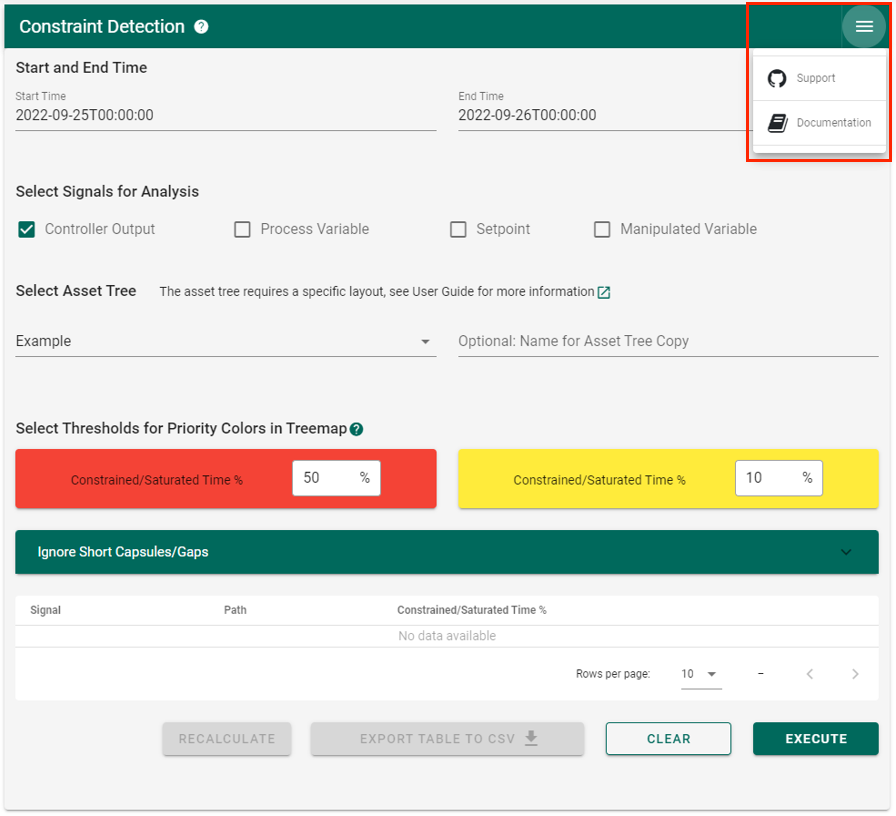
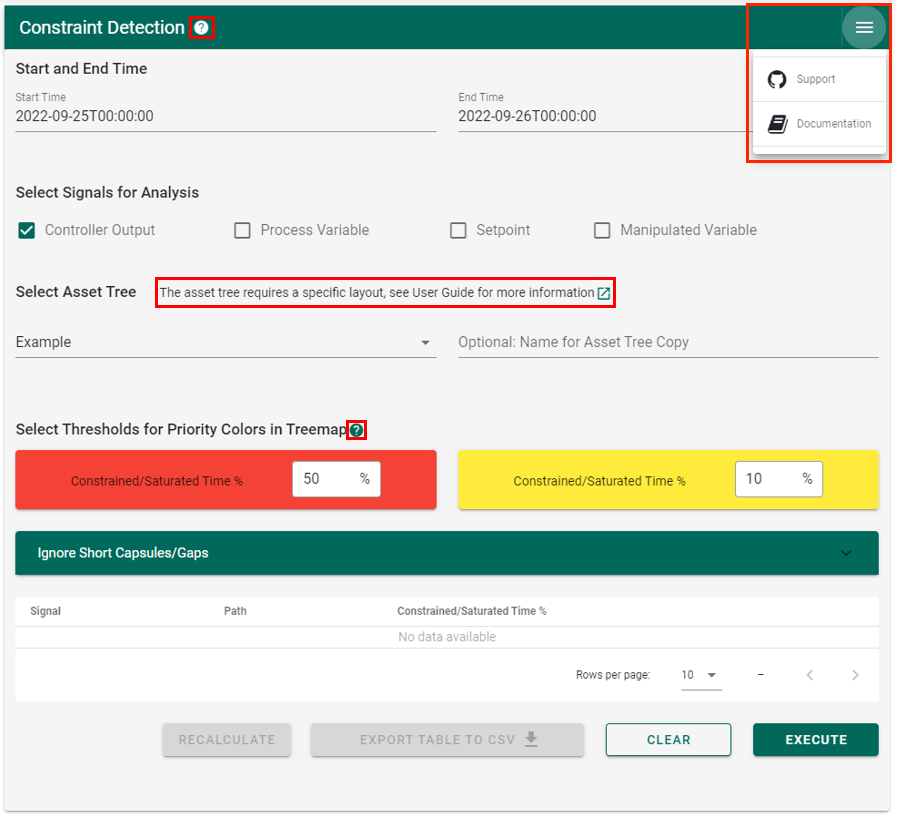
Add support section to documentation

diff --git a/docs/searchindex.js b/docs/searchindex.js
@@ -1,1 +1,1 @@
-Search.setIndex({docnames:["add_on_installation","backend_calculations","citation","codedocumentation","index","installation","introduction","license","releasenotes","usecases","user_interface","userguide"],envversion:{"sphinx.domains.c":2,"sphinx.domains.changeset":1,"sphinx.domains.citation":1,"sphinx.domains.cpp":3,"sphinx.domains.index":1,"sphinx.domains.javascript":2,"sphinx.domains.math":2,"sphinx.domains.python":3,"sphinx.domains.rst":2,"sphinx.domains.std":2,"sphinx.ext.intersphinx":1,"sphinx.ext.viewcode":1,sphinx:56},filenames:["add_on_installation.rst","backend_calculations.rst","citation.rst","codedocumentation.rst","index.rst","installation.rst","introduction.rst","license.rst","releasenotes.rst","usecases.rst","user_interface.rst","userguide.rst"],objects:{"seeq.addons.constraintdetection":{_SPy_functions:[1,0,0,"-"],__main__:[0,0,0,"-"],_saturation_detection:[1,0,0,"-"],_seeq_add_on:[10,0,0,"-"]},"seeq.addons.constraintdetection._SPy_functions":{OnlyPushWorksheetsPatch:[1,1,1,""],get_start_end_display_range:[1,2,1,""],get_start_end_display_range_from_ids:[1,2,1,""],pull_signals_from_asset_tree:[1,2,1,""],push_metadata:[1,2,1,""],push_signals:[1,2,1,""],recalculate_change_short_gap_capsule:[1,2,1,""],saturation_treemap:[1,2,1,""]},"seeq.addons.constraintdetection.__main__":{cli_interface:[0,2,1,""],install_app:[0,2,1,""]},"seeq.addons.constraintdetection._saturation_detection":{generate_constraint_index_table:[1,2,1,""],generate_metadata:[1,2,1,""],generate_short_gap_capsule:[1,2,1,""],recalculate_constraint_index_table:[1,2,1,""],recalculate_saturation_index:[1,2,1,""],saturation_detection:[1,2,1,""]},"seeq.addons.constraintdetection._seeq_add_on":{ConstraintDetection:[10,1,1,""],HamburgerMenu:[10,1,1,""]},"seeq.addons.constraintdetection._seeq_add_on.ConstraintDetection":{ConstraintDetectionUI:[10,3,1,""],clear_button_clicked:[10,3,1,""],execute_button_clicked:[10,3,1,""],on_close_button_clicked:[10,3,1,""],open_constraint_detection_dialog:[10,3,1,""],open_threshold_dialog:[10,3,1,""],recalculate_button_clicked:[10,3,1,""]}},objnames:{"0":["py","module","Python module"],"1":["py","class","Python class"],"2":["py","function","Python function"],"3":["py","method","Python method"]},objtypes:{"0":"py:module","1":"py:class","2":"py:function","3":"py:method"},terms:{"0":[2,4,7],"1":[4,5,6,11],"10":9,"11":9,"111":9,"12":9,"13":9,"15":11,"184":8,"2":[4,6,7,11],"20":9,"2022":7,"2min":1,"3":[4,5,6,11],"30":[9,11],"4":[2,4,5,9,11],"44":9,"444":9,"44cc":0,"5":9,"50":9,"5ee0f903100c":0,"6":[5,9],"60":9,"6ab49411":0,"7":[5,9],"8":9,"80":9,"9":9,"90":9,"917e":0,"case":[4,11],"class":[1,10],"default":[0,9,10,11],"do":9,"export":11,"float":1,"function":[1,10],"import":6,"int":1,"new":[1,5,9,10,11],"return":[0,1,11],"short":[1,6,9,10,11],"true":1,"while":11,A:[0,1,6,9,11],AS:7,By:11,For:[5,9,11],IS:7,If:[5,8,9,11],In:[6,9,11],It:[1,8,11],No:[9,11],OF:7,OR:7,On:[9,11],That:9,The:[0,1,5,6,9,11],Then:11,There:[5,9,11],These:5,With:9,__main__:0,_saturation_detect:1,_seeq_add_on:10,_spy_funct:1,abl:8,about:[10,11],abov:11,accept:11,access:[0,5],accord:[9,11],activ:[1,5,9,11],actor:4,actual:11,actuat:[6,11],add:[1,3,4,5,6,8,9,10],addit:[5,6,9,11],addition:5,addon:[0,1,5,10],adjust:9,administr:5,affect:11,after:[9,11],again:[9,11],agre:7,all:[1,9,10],also:[1,9,11],alwai:9,an:[0,6,7,9,10,11],analys:[6,9,11],analysi:[1,4,10,11],analyz:1,ani:[5,7],anti:11,apach:7,appear:[0,9,11],append:11,appli:11,applic:7,appropri:5,ar:[0,5,6,8,11],archiv:1,around:11,asset:[1,4,6,9],asset_tree_nam:1,assign:[9,11],autom:[2,5,11],automat:11,avail:11,awai:11,ba19:0,backend:[3,4,5],bad:4,bar:11,base:[1,9,10],basi:7,becaus:[6,9],becom:6,being:8,belong:11,below:[9,11],between:[1,11],bool:1,both:9,bug:8,build:[1,5],build_df:1,button:[1,10,11],calcul:[1,3,4,6,9,11],call:[1,9],can:[1,5,6,8,9,10,11],capsul:[1,6,9,10,11],cascad:[6,11],caus:[4,9],certain:6,chang:5,charact:0,check:1,checkbox:[1,9,11],checkbox_mv:1,checkbox_op:1,checkbox_pv:1,checkbox_sp:1,citat:4,cite:2,clear:10,clear_button_click:10,cli_interfac:0,click:[1,9,10,11],clone:5,close:[1,10,11],code:[4,11],colour:[1,6,9,11],column:[1,9],com:[0,2,5],command:5,complet:[6,11],complianc:7,compon:[6,10],condit:[1,7,9],consequ:9,consid:9,consist:6,constrain:[1,4,6,11],constraint:[0,1,2,4,5,10],constraintdetect:[0,1,2,5,6,8,10],constraintdetectionui:10,contain:[0,1,10,11],contraint:1,control:[1,4,6,11],copi:[7,9,11],copyright:7,corpor:7,correctli:11,correspond:[9,11],courtesi:5,creat:[1,5,10],csv:11,current:8,damag:11,data:[0,1,4,6,10,11],datafram:1,datat:1,defin:11,deliber:11,depart:11,depend:[4,9],descend:9,design:11,desir:9,detail:9,detect:[0,1,2,4,5,9,10],determin:[0,9],develop:5,deviat:6,dialog:10,dictionari:1,differ:[6,11],dimens:11,disabl:11,displai:[0,1,9,11],distribut:7,disturb:11,divid:9,document:11,doe:5,down:6,download:11,drill:6,drive:9,driven:9,due:[6,8],dure:11,e:[0,1],each:[0,9,11],easi:9,easier:9,either:7,empti:11,enabl:[5,11],encount:11,end:[1,11],end_tim:1,enter:11,environ:5,error:11,even:9,event:10,everi:[1,9,11],examin:9,exampl:[9,11],except:7,execut:[8,9,10,11],execute_button_click:10,exist:1,expans:11,explan:10,explor:11,express:7,extern:11,facilit:9,fals:1,familiar:5,fic:11,field:[10,11],figur:[6,9,11],file:5,find:[9,11],finish:9,first:[9,11],follow:[5,9],format:1,formula:1,found:[5,9,11],from:[1,4,6,8,9,10,11],fulli:11,further:9,furthermor:[6,9],g:[0,1],gap:[1,9,10,11],gener:[1,9,10,11],generate_constraint_index_t:1,generate_metadata:1,generate_short_gap_capsul:1,germani:11,get:[1,5,6,9],get_start_end_display_rang:1,get_start_end_display_range_from_id:1,git:5,github:[2,5,11],give:9,good:9,govern:7,green:[9,11],group:[0,5],groups_list:5,guarante:5,guid:4,guidanc:11,ha:9,hamburg:11,hamburgermenu:10,hand:[1,9],handl:11,have:[0,9,11],haw:[2,5],help:11,her:6,here:[5,11],high:[1,9],higher:[9,11],highest:11,highli:5,him:6,hit:9,hour:1,how:9,howev:9,http:[0,2,7],hundr:11,id:1,identifi:4,ignor:[1,11],illustr:9,implement:11,impli:[5,7],inappropri:11,includ:5,index:[1,4,9],indic:1,individu:9,industri:11,inform:[5,9],initi:8,input:10,insert:11,insight:11,instal:[3,4],install_app:0,instruct:5,integ:1,integr:11,intend:[9,11],interest:6,interfac:[3,4,6,9,11],interpret:9,interv:11,intreg:11,introduct:4,intuit:6,investig:9,involv:11,ipyvuetifi:10,issu:11,iter:11,its:[9,11],joined_signals_correct_naming_df:1,joined_signals_df:1,jupyter_notebook_url:10,kei:5,kind:7,kwarg:10,lab:[0,4,11],languag:7,larg:11,later:5,latest:5,law:7,left:11,length:1,letter:0,level:[9,11],li:11,licens:4,like:9,limit:[6,7],list:[0,5],log:5,look:[5,9],loop:[4,6],low:9,lower:9,lower_threshold:1,m:5,mai:[7,9],make:9,manipul:[1,6,11],match:5,maximum:6,mean:9,measur:[6,11],medium:[1,9],meet:6,menu:[10,11],metadata:1,mid:11,minimum:6,minut:[1,11],mode:[9,11],model:[4,6],modern:11,modul:[4,5],monitor:[6,11],more:[5,9],most:[9,11],move:11,mpc:[6,9,11],multipl:[6,8,11],must:11,mv:[1,6],my:0,name:[0,1,6,9,11],necessari:11,need:[5,11],new_asset_tree_nam:1,none:0,note:[4,9],now:[9,11],number:9,object:[1,10],oblig:5,obtain:7,off:11,often:9,on_close_button_click:10,onc:[5,11],one:[0,9],onli:[6,8,9,11],onlypushworksheetspatch:1,op:[1,6,9],open:[5,8,10,11],open_constraint_detection_dialog:10,open_threshold_dialog:10,oper:[6,9,11],optimum:9,option:[0,5,9,11],order:[0,9,11],org:7,origin:[1,11],original_asset_tree_nam:1,other:9,out:9,output:[1,6,9,11],outsid:11,over:[1,9],overview:4,owner:8,packag:5,page:[4,11],panel:[0,9,11],paramet:[0,1],password:5,path:[1,9],pd:1,peopl:8,per:9,percentag:[1,6,9],perform:[6,9],period:[6,9,11],permiss:[5,7],permissions_group:0,permissions_us:0,physic:6,pip:5,plant:[4,6],pleas:2,poor:11,popul:9,possibl:[9,11],predict:[4,6],prevent:[1,11],previous:9,prioriti:1,problemat:9,process:[1,2,5,6,9,11],progress:11,project:5,prompt:5,provid:6,publish:5,pull:1,pull_signals_from_asset_tre:1,pulled_signals_df:1,purpos:9,push:1,push_metadata:1,push_result:1,push_sign:1,pv:[1,6,9],py:5,pypi:5,python:5,question:11,quiet:1,r54:5,r56:5,r:5,rang:[1,6,11],reach:[6,9,11],reason:6,recalcul:[1,10,11],recalculate_button_click:10,recalculate_change_short_gap_capsul:1,recalculate_constraint_index_t:1,recalculate_saturation_index:1,recogn:11,recommend:[5,8],red:[1,9,11],redirect:11,refer:1,refresh:11,regard:10,releas:4,repositori:5,request:11,requir:[4,7,9,10,11],reset:10,result:[1,6,9,11],right:11,run:[5,11],s:[0,9,11],same:9,satur:[1,4,6,9],saturation_detect:1,saturation_index_df:1,saturation_index_dict:1,saturation_signals_df:1,saturation_treemap:1,scheme:11,scienc:11,sdl:0,sdl_url:0,sdl_url_:0,search:4,second:[1,9],section:9,see:[5,7,9],seen:9,seeq:[0,1,2,6,7,8,10,11],select:[1,9,11],sensor:[6,11],server:5,set:[1,6,9],setpoint:[1,4,6,11],setup:5,sever:[9,11],share:8,short_capsul:1,short_capsule_numb:1,short_capsule_unit:1,short_gap:1,short_gap_numb:1,short_gap_unit:1,should:[1,9,11],show:[9,11],shown:[6,9],signal:[1,6,9,11],so:[1,9,11],softwar:7,some:9,sort:9,sort_kei:0,sourc:[0,1,4,8,10],sp:[1,6,9],special:11,specif:[7,9,11],specifi:[1,6,9,10,11],spy:[1,8],stand:9,start:[1,5,11],start_tim:1,statist:[9,11],step:[9,11],stick:6,still:11,str:[0,1],string:[0,1],structur:[1,6,9,11],suit:9,support:[4,5],system:11,tabl:[1,9,11],tailor:9,take:[5,11],target:9,termin:5,text:11,thei:9,them:[10,11],therefor:[9,11],thi:[1,2,7,8,9,10,11],third:9,three:9,threshold:[1,6,9,10,11],time:[1,6,9,11],tool:[0,5,9,11],top:[9,11],total:9,tree:[1,4,6,9],treemap:[1,6,9,10,11],treemap_assetstructur:1,trend:[6,9,11],trendview:9,tune:11,two:9,txt:5,type:[0,1,9,11],typic:0,ui:[1,9,10,11],under:7,underli:[6,9],unformat:1,unit:[1,9],univers:11,unless:7,unusu:11,up:11,upper_threshold:1,url:[0,1],us:[1,4,5,6,7,8,10,11],user:[0,1,3,4,6,9],usernam:5,users_list:5,usual:11,v0:[2,4],v:1,valu:[9,10,11],valv:11,variabl:[1,6,9,11],veri:9,version:[5,7,8],video:4,view:[1,6,9,10,11],virtual:5,visual:[6,9,10,11],wa:[9,11],wai:[9,11],wait:11,want:[5,11],warranti:7,web:11,week:9,well:1,were:9,what:5,wheel:5,when:[1,5,6,10],where:[6,9,11],whether:9,which:[0,1,6,9,11],whose:5,why:9,wide:[4,6],widget:10,wind:11,window:[5,10,11],within:9,without:7,word:11,worflow:11,work:[2,5,7,8],workbench:[0,8,9,11],workbook:[1,8],workbook_id:1,workflow:4,worksheet:[1,9,11],worksheet_id:1,workstep:1,workstep_id:1,would:9,write:7,www:7,yellow:[1,9,11],you:[5,7,8,9,11],your:[5,11]},titles:["Add-on Installation","Backend","Citation","Code Documentation","Welcome to seeq-constraintdetection\u2019s documentation!","Installation","Introduction","License","Release Notes","Use Cases","User Interface","User Guide"],titleterms:{"0":8,"1":9,"2":9,"3":9,"3a":9,"3b":9,"4":8,"case":9,actor:9,add:[0,11],analysi:9,ar:9,asset:11,backend:1,bad:9,caus:11,citat:2,code:3,constrain:9,constraint:[6,9,11],constraintdetect:4,content:[3,4],control:9,data:[5,9],depend:5,detect:[6,11],document:[3,4],from:5,guid:11,identifi:9,indic:4,instal:[0,5],intent:9,interfac:10,introduct:6,lab:5,licens:7,loop:9,model:9,note:8,notebook:11,overview:6,plant:9,predict:9,releas:8,requir:5,s:4,satur:11,seeq:[4,5],setpoint:9,sourc:5,support:11,tabl:4,templat:11,tree:11,unintent:9,us:9,user:[5,10,11],v0:8,video:[6,11],welcom:4,wide:9,workflow:11}})
+Search.setIndex({docnames:["add_on_installation","backend_calculations","citation","codedocumentation","index","installation","introduction","license","releasenotes","support","usecases","user_interface","userguide"],envversion:{"sphinx.domains.c":2,"sphinx.domains.changeset":1,"sphinx.domains.citation":1,"sphinx.domains.cpp":3,"sphinx.domains.index":1,"sphinx.domains.javascript":2,"sphinx.domains.math":2,"sphinx.domains.python":3,"sphinx.domains.rst":2,"sphinx.domains.std":2,"sphinx.ext.intersphinx":1,"sphinx.ext.viewcode":1,sphinx:56},filenames:["add_on_installation.rst","backend_calculations.rst","citation.rst","codedocumentation.rst","index.rst","installation.rst","introduction.rst","license.rst","releasenotes.rst","support.rst","usecases.rst","user_interface.rst","userguide.rst"],objects:{"seeq.addons.constraintdetection":{_SPy_functions:[1,0,0,"-"],__main__:[0,0,0,"-"],_saturation_detection:[1,0,0,"-"],_seeq_add_on:[11,0,0,"-"]},"seeq.addons.constraintdetection._SPy_functions":{OnlyPushWorksheetsPatch:[1,1,1,""],get_start_end_display_range:[1,2,1,""],get_start_end_display_range_from_ids:[1,2,1,""],pull_signals_from_asset_tree:[1,2,1,""],push_metadata:[1,2,1,""],push_signals:[1,2,1,""],recalculate_change_short_gap_capsule:[1,2,1,""],saturation_treemap:[1,2,1,""]},"seeq.addons.constraintdetection.__main__":{cli_interface:[0,2,1,""],install_app:[0,2,1,""]},"seeq.addons.constraintdetection._saturation_detection":{generate_constraint_index_table:[1,2,1,""],generate_metadata:[1,2,1,""],generate_short_gap_capsule:[1,2,1,""],recalculate_constraint_index_table:[1,2,1,""],recalculate_saturation_index:[1,2,1,""],saturation_detection:[1,2,1,""]},"seeq.addons.constraintdetection._seeq_add_on":{ConstraintDetection:[11,1,1,""],HamburgerMenu:[11,1,1,""]},"seeq.addons.constraintdetection._seeq_add_on.ConstraintDetection":{ConstraintDetectionUI:[11,3,1,""],clear_button_clicked:[11,3,1,""],execute_button_clicked:[11,3,1,""],on_close_button_clicked:[11,3,1,""],open_constraint_detection_dialog:[11,3,1,""],open_threshold_dialog:[11,3,1,""],recalculate_button_clicked:[11,3,1,""]}},objnames:{"0":["py","module","Python module"],"1":["py","class","Python class"],"2":["py","function","Python function"],"3":["py","method","Python method"]},objtypes:{"0":"py:module","1":"py:class","2":"py:function","3":"py:method"},terms:{"0":[2,4,7],"1":[4,5,6,9,12],"10":10,"11":10,"111":10,"12":10,"13":10,"15":12,"184":8,"2":[4,6,7,9,12],"20":10,"2022":7,"2min":1,"3":[4,5,6,12],"30":[10,12],"4":[2,4,5,10],"44":10,"444":10,"44cc":0,"5":10,"50":10,"5ee0f903100c":0,"6":[5,10],"60":10,"6ab49411":0,"7":[5,10],"8":10,"80":10,"9":10,"90":10,"917e":0,"case":[4,9,12],"class":[1,11],"default":[0,10,11,12],"do":10,"export":12,"float":1,"function":[1,9,11],"import":6,"int":1,"new":[1,5,9,10,11,12],"return":[0,1,12],"short":[1,6,9,10,11,12],"true":1,"while":[9,12],A:[0,1,6,10,12],AS:7,By:12,For:[5,9,10,12],IS:7,If:[5,8,9,10,12],In:[6,9,10,12],It:[1,8,12],No:[10,12],OF:7,OR:7,On:[10,12],That:10,The:[0,1,5,6,9,10,12],Then:12,There:[5,9,10],These:5,With:10,__main__:0,_saturation_detect:1,_seeq_add_on:11,_spy_funct:1,abl:8,about:[9,11],abov:12,accept:12,access:[0,5],accord:[10,12],activ:[1,5,10,12],actor:4,actual:12,actuat:[6,12],add:[1,3,4,5,6,8,9,10,11],addit:[5,6,10,12],addition:5,addon:[0,1,5,11],adjust:10,administr:5,affect:12,after:[10,12],again:[10,12],agre:7,all:[1,10,11],also:[1,10,12],alwai:10,an:[0,6,7,9,10,11,12],analys:[6,10,12],analysi:[1,4,11,12],analyz:1,ani:[5,7],anti:12,apach:7,appear:[0,10,12],append:12,appli:[9,12],applic:7,appropri:5,ar:[0,5,6,8,9,12],archiv:1,around:12,asset:[1,4,6,9,10],asset_tree_nam:1,assign:[10,12],autom:[2,5,9],automat:9,avail:12,awai:12,ba19:0,backend:[3,4,5],bad:4,bar:12,base:[1,10,11],basi:7,becaus:[6,10],becom:6,being:8,belong:12,below:[10,12],between:[1,12],bool:1,both:10,bug:8,build:[1,5],build_df:1,button:[1,11,12],calcul:[1,3,4,6,10,12],call:[1,10],can:[1,5,6,8,9,10,11,12],capsul:[1,6,10,11,12],cascad:[6,12],caus:[4,10],certain:[6,9],chang:5,charact:0,check:1,checkbox:[1,10,12],checkbox_mv:1,checkbox_op:1,checkbox_pv:1,checkbox_sp:1,citat:4,cite:2,clear:11,clear_button_click:11,cli_interfac:0,click:[1,9,10,11,12],clone:5,close:[1,11,12],code:[4,12],colour:[1,6,10,12],column:[1,10],com:[0,2,5],command:5,complet:[6,12],complianc:7,compon:[6,11],condit:[1,7,10],consequ:10,consid:10,consist:6,constrain:[1,4,6,12],constraint:[0,1,2,4,5,9,11],constraintdetect:[0,1,2,5,6,8,11],constraintdetectionui:11,contain:[0,1,11,12],contraint:1,control:[1,4,6,12],copi:[7,10,12],copyright:7,corpor:7,correctli:12,correspond:[10,12],courtesi:5,creat:[1,5,11],csv:12,current:8,damag:12,data:[0,1,4,6,11,12],datafram:1,datat:1,defin:12,deliber:12,depart:9,depend:[4,10],descend:10,design:12,desir:10,detail:10,detect:[0,1,2,4,5,9,10,11],determin:[0,10],develop:5,deviat:6,dialog:[9,11],dictionari:1,differ:[6,12],dimens:12,disabl:12,displai:[0,1,10,12],distribut:7,disturb:12,divid:10,document:9,doe:5,down:6,download:12,drill:6,drive:10,driven:10,due:[6,8],dure:12,e:[0,1],each:[0,10,12],easi:10,easier:10,either:7,empti:12,enabl:[5,12],encount:9,end:[1,12],end_tim:1,enter:12,environ:5,error:9,even:10,event:11,everi:[1,10,12],examin:10,exampl:[10,12],except:7,execut:[8,10,11,12],execute_button_click:11,exist:1,expans:12,explan:[9,11],explor:12,express:7,extern:12,facilit:10,fals:1,familiar:5,fic:12,field:[11,12],figur:[6,9,10,12],file:5,find:[9,10],finish:10,first:[10,12],follow:[5,10],format:1,formula:1,found:[5,10,12],from:[1,4,6,8,10,11,12],fulli:12,further:10,furthermor:[6,10],g:[0,1],gap:[1,10,11,12],gener:[1,9,10,11,12],generate_constraint_index_t:1,generate_metadata:1,generate_short_gap_capsul:1,germani:9,get:[1,5,6,10],get_start_end_display_rang:1,get_start_end_display_range_from_id:1,git:5,github:[2,5,9],give:10,good:10,govern:7,green:[10,12],group:[0,5],groups_list:5,guarante:5,guid:[4,9],guidanc:12,ha:10,hamburg:9,hamburgermenu:11,hand:[1,10],handl:9,have:[0,10,12],haw:[2,5],help:9,her:6,here:[5,12],high:[1,10],higher:[10,12],highest:12,highli:5,him:6,hit:10,hour:1,how:10,howev:10,http:[0,2,7],hundr:12,icon:9,id:1,identifi:4,ignor:[1,12],illustr:10,implement:12,impli:[5,7],inappropri:12,includ:5,index:[1,4,10],indic:1,individu:10,industri:12,inform:[5,10],initi:8,input:11,insert:12,insight:12,instal:[3,4],install_app:0,instruct:5,integ:1,integr:12,intend:[10,12],interest:6,interfac:[3,4,6,10,12],interpret:10,interv:12,intreg:12,introduct:4,intuit:6,investig:10,involv:12,ipyvuetifi:11,issu:9,iter:12,its:[10,12],joined_signals_correct_naming_df:1,joined_signals_df:1,jupyter_notebook_url:11,kei:5,kind:7,kwarg:11,lab:[0,4,12],languag:7,larg:12,later:5,latest:5,law:7,left:12,length:1,letter:0,level:[10,12],li:12,licens:4,like:10,limit:[6,7],link:9,list:[0,5],log:5,look:[5,10],loop:[4,6],low:10,lower:10,lower_threshold:1,m:5,mai:[7,10],make:10,manipul:[1,6,12],mark:9,match:5,maximum:6,mean:10,measur:[6,12],medium:[1,10],meet:6,menu:[9,11,12],metadata:1,mid:12,minimum:6,minut:[1,12],mode:[10,12],model:[4,6],modern:12,modul:[4,5],monitor:[6,12],more:[5,10],most:[10,12],move:12,mpc:[6,10,12],multipl:[6,8,12],must:12,mv:[1,6],my:0,name:[0,1,6,10,12],necessari:12,need:[5,9],new_asset_tree_nam:1,none:0,note:[4,10],now:[10,12],number:10,object:[1,11],oblig:5,obtain:7,off:12,often:10,on_close_button_click:11,onc:[5,12],one:[0,10],onli:[6,8,10,12],onlypushworksheetspatch:1,op:[1,6,10],open:[5,8,9,11,12],open_constraint_detection_dialog:11,open_threshold_dialog:11,oper:[6,10,12],optimum:10,option:[0,5,9,10,12],order:[0,10,12],org:7,origin:[1,12],original_asset_tree_nam:1,other:[9,10],out:10,output:[1,6,10,12],outsid:12,over:[1,10],overview:4,owner:8,packag:5,page:[4,12],panel:[0,10,12],paramet:[0,1],part:9,password:5,path:[1,10],pd:1,peopl:8,per:10,percentag:[1,6,10],perform:[6,10],period:[6,10,12],permiss:[5,7],permissions_group:0,permissions_us:0,physic:6,pip:5,plant:[4,6],pleas:2,poor:12,popul:10,possibl:[10,12],predict:[4,6],prevent:[1,12],previous:10,prioriti:1,problemat:10,process:[1,2,5,6,10,12],progress:12,project:5,prompt:5,provid:[6,9],publish:5,pull:1,pull_signals_from_asset_tre:1,pulled_signals_df:1,purpos:10,push:1,push_metadata:1,push_result:1,push_sign:1,pv:[1,6,10],py:5,pypi:5,python:5,question:9,quiet:1,r54:5,r56:5,r:5,rang:[1,6,12],reach:[6,10,12],reason:6,recalcul:[1,11,12],recalculate_button_click:11,recalculate_change_short_gap_capsul:1,recalculate_constraint_index_t:1,recalculate_saturation_index:1,recogn:12,recommend:[5,8],red:[1,10,12],redirect:9,refer:1,refresh:12,regard:11,releas:4,repositori:5,request:9,requir:[4,7,10,11,12],reset:11,result:[1,6,10,12],right:9,run:[5,9,12],s:[0,10,12],same:10,satur:[1,4,6,10],saturation_detect:1,saturation_index_df:1,saturation_index_dict:1,saturation_signals_df:1,saturation_treemap:1,scheme:12,scienc:9,sdl:0,sdl_url:0,sdl_url_:0,search:4,second:[1,10],section:[9,10],see:[5,7,10],seen:10,seeq:[0,1,2,6,7,8,11,12],select:[1,9,10,12],sensor:[6,12],server:5,set:[1,6,10],setpoint:[1,4,6,12],setup:5,sever:[10,12],share:8,short_capsul:1,short_capsule_numb:1,short_capsule_unit:1,short_gap:1,short_gap_numb:1,short_gap_unit:1,should:[1,10,12],show:[10,12],shown:[6,10],signal:[1,6,10,12],so:[1,10,12],softwar:7,some:10,sort:10,sort_kei:0,sourc:[0,1,4,8,11],sp:[1,6,10],special:9,specif:[7,10,12],specifi:[1,6,10,11,12],spy:[1,8],stand:10,start:[1,5,12],start_tim:1,statist:[10,12],step:[10,12],stick:6,still:12,str:[0,1],string:[0,1],structur:[1,6,10,12],suit:10,support:[4,5],system:12,tabl:[1,10,12],tailor:10,take:[5,12],target:10,termin:5,text:12,thei:10,them:[11,12],therefor:[10,12],thi:[1,2,7,8,9,10,11,12],third:10,three:10,threshold:[1,6,10,11,12],time:[1,6,10,12],tool:[0,5,10,12],top:[9,10,12],total:10,tree:[1,4,6,9,10],treemap:[1,6,10,11,12],treemap_assetstructur:1,trend:[6,10,12],trendview:10,tune:12,two:10,txt:5,type:[0,1,10,12],typic:0,ui:[1,9,10,11,12],under:7,underli:[6,10],unformat:1,unit:[1,10],univers:9,unless:7,unusu:12,up:12,upper_threshold:1,url:[0,1],us:[1,4,5,6,7,8,9,11,12],user:[0,1,3,4,6,9,10],usernam:5,users_list:5,usual:12,v0:[2,4],v:1,valu:[10,11,12],valv:12,variabl:[1,6,10,12],veri:10,version:[5,7,8],video:4,view:[1,6,10,11,12],virtual:5,visual:[6,10,11,12],wa:[10,12],wai:[10,12],wait:12,want:[5,12],warranti:7,web:12,week:10,well:1,were:10,what:5,wheel:5,when:[1,5,6,11],where:[6,9,10,12],whether:10,which:[0,1,6,9,10,12],whose:5,why:10,wide:[4,6],widget:11,wind:12,window:[5,9,11,12],within:10,without:7,word:12,worflow:12,work:[2,5,7,8],workbench:[0,8,10,12],workbook:[1,8],workbook_id:1,workflow:4,worksheet:[1,10,12],worksheet_id:1,workstep:1,workstep_id:1,would:10,write:7,www:7,yellow:[1,10,12],you:[5,7,8,9,10,12],your:[5,12]},titles:["Add-on Installation","Backend","Citation","Code Documentation","Welcome to seeq-constraintdetection\u2019s documentation!","Installation","Introduction","License","Release Notes","Support","Use Cases","User Interface","User Guide"],titleterms:{"0":8,"1":10,"2":10,"3":10,"3a":10,"3b":10,"4":8,"case":10,actor:10,add:[0,12],analysi:10,ar:10,asset:12,backend:1,bad:10,caus:12,citat:2,code:3,constrain:10,constraint:[6,10,12],constraintdetect:4,content:[3,4],control:10,data:[5,10],depend:5,detect:[6,12],document:[3,4],from:5,guid:12,identifi:10,indic:4,instal:[0,5],intent:10,interfac:11,introduct:6,lab:5,licens:7,loop:10,model:10,note:8,notebook:12,overview:6,plant:10,predict:10,releas:8,requir:5,s:4,satur:12,seeq:[4,5],setpoint:10,sourc:5,support:9,tabl:4,templat:12,tree:12,unintent:10,us:10,user:[5,11,12],v0:8,video:[6,12],welcom:4,wide:10,workflow:12}})

diff --git a/docs/support.html b/docs/support.html
@@ -1,9 +1,10 @@
 <!DOCTYPE html>
 <html class="writer-html5" lang="en" >
 <head>
-  <meta charset="utf-8" />
+  <meta charset="utf-8" /><meta name="generator" content="Docutils 0.17: http://docutils.sourceforge.net/" />
+
   <meta name="viewport" content="width=device-width, initial-scale=1.0" />
-  <title>Python Module Index &mdash; seeq-constraintdetection 0.0.4 documentation</title>
+  <title>Support &mdash; seeq-constraintdetection 0.0.4 documentation</title>
       <link rel="stylesheet" href="_static/pygments.css" type="text/css" />
       <link rel="stylesheet" href="_static/css/theme.css" type="text/css" />
     <link rel="shortcut icon" href="_static/seeq-favicon.ico"/>
@@ -18,9 +19,8 @@
     <script src="_static/js/theme.js"></script>
     <link rel="index" title="Index" href="genindex.html" />
     <link rel="search" title="Search" href="search.html" />
- 
-
-
+    <link rel="next" title="Code Documentation" href="codedocumentation.html" />
+    <link rel="prev" title="Use Cases" href="usecases.html" /> 
 </head>
 
 <body class="wy-body-for-nav"> 
@@ -43,12 +43,12 @@
 </div>
         </div><div class="wy-menu wy-menu-vertical" data-spy="affix" role="navigation" aria-label="Navigation menu">
               <p class="caption"><span class="caption-text">Contents:</span></p>
-<ul>
+<ul class="current">
 <li class="toctree-l1"><a class="reference internal" href="introduction.html">Introduction</a></li>
 <li class="toctree-l1"><a class="reference internal" href="releasenotes.html">Release Notes</a></li>
 <li class="toctree-l1"><a class="reference internal" href="userguide.html">User Guide</a></li>
 <li class="toctree-l1"><a class="reference internal" href="usecases.html">Use Cases</a></li>
-<li class="toctree-l1"><a class="reference internal" href="support.html">Support</a></li>
+<li class="toctree-l1 current"><a class="current reference internal" href="#">Support</a></li>
 <li class="toctree-l1"><a class="reference internal" href="codedocumentation.html">Code Documentation</a></li>
 <li class="toctree-l1"><a class="reference internal" href="installation.html">Installation</a></li>
 <li class="toctree-l1"><a class="reference internal" href="license.html">License</a></li>
@@ -69,8 +69,9 @@
           <div role="navigation" aria-label="Page navigation">
   <ul class="wy-breadcrumbs">
       <li><a href="index.html" class="icon icon-home"></a> &raquo;</li>
-      <li>Python Module Index</li>
+      <li>Support</li>
       <li class="wy-breadcrumbs-aside">
+            <a href="_sources/support.rst.txt" rel="nofollow"> View page source</a>
       </li>
   </ul>
   <hr/>
@@ -78,49 +79,33 @@
           <div role="main" class="document" itemscope="itemscope" itemtype="http://schema.org/Article">
            <div itemprop="articleBody">
              
-
-   <h1>Python Module Index</h1>
-
-   <div class="modindex-jumpbox">
-   <a href="#cap-s"><strong>s</strong></a>
-   </div>
-
-   <table class="indextable modindextable">
-     <tr class="pcap"><td></td><td>&#160;</td><td></td></tr>
-     <tr class="cap" id="cap-s"><td></td><td>
-       <strong>s</strong></td><td></td></tr>
-     <tr>
-       <td><img src="_static/minus.png" class="toggler"
-              id="toggle-1" style="display: none" alt="-" /></td>
-       <td>
-       <code class="xref">seeq</code></td><td>
-       <em></em></td></tr>
-     <tr class="cg-1">
-       <td></td>
-       <td>&#160;&#160;&#160;
-       <a href="add_on_installation.html#module-seeq.addons.constraintdetection.__main__"><code class="xref">seeq.addons.constraintdetection.__main__</code></a></td><td>
-       <em></em></td></tr>
-     <tr class="cg-1">
-       <td></td>
-       <td>&#160;&#160;&#160;
-       <a href="backend_calculations.html#module-seeq.addons.constraintdetection._saturation_detection"><code class="xref">seeq.addons.constraintdetection._saturation_detection</code></a></td><td>
-       <em></em></td></tr>
-     <tr class="cg-1">
-       <td></td>
-       <td>&#160;&#160;&#160;
-       <a href="user_interface.html#module-seeq.addons.constraintdetection._seeq_add_on"><code class="xref">seeq.addons.constraintdetection._seeq_add_on</code></a></td><td>
-       <em></em></td></tr>
-     <tr class="cg-1">
-       <td></td>
-       <td>&#160;&#160;&#160;
-       <a href="backend_calculations.html#module-seeq.addons.constraintdetection._SPy_functions"><code class="xref">seeq.addons.constraintdetection._SPy_functions</code></a></td><td>
-       <em></em></td></tr>
-   </table>
+  <section id="support">
+<h1>Support<a class="headerlink" href="#support" title="Permalink to this headline"></a></h1>
+<p>If you are using the Constraint Detection Add-on and need support, you can click on the menu at the top right. There you will find the options ‘Support’ and ‘Documentation’.</p>
+<figure class="align-default" id="id1">
+<img alt="_images/userguide_support_1.PNG" src="_images/userguide_support_1.PNG" />
+<figcaption>
+<p><span class="caption-text">Figure 1: Hamburger menu in the UI</span><a class="headerlink" href="#id1" title="Permalink to this image"></a></p>
+</figcaption>
+</figure>
+<p>If you encounter an error while running the add-on or you need help with a special use case, click on ‘Support’. You will automatically be redirected to the <a class="reference external" href="https://github.com/HAW-Process-Automation/Constraint-Detection/issues">GitHub Issues</a> of the Constraint Detection Add-on and can open a new issue there.
+Support requests are handled by the Department of Automation of the Hamburg University of Applied Sciences in Germany. For general questions about the use of the add-on, you can click on ‘Documentation’. This will redirect you to this
+documentation. In other parts of the UI, there are question mark icons which will open a dialog window where you will find short explanations about certain add-on functions. The ‘Select Asset Tree’ Section provides a link to the user guide.</p>
+<figure class="align-default" id="id2">
+<img alt="_images/userguide_support_2.PNG" src="_images/userguide_support_2.PNG" />
+<figcaption>
+<p><span class="caption-text">Figure 2: GitHub Issues</span><a class="headerlink" href="#id2" title="Permalink to this image"></a></p>
+</figcaption>
+</figure>
+</section>
 
 
            </div>
           </div>
-          <footer>
+          <footer><div class="rst-footer-buttons" role="navigation" aria-label="Footer">
+        <a href="usecases.html" class="btn btn-neutral float-left" title="Use Cases" accesskey="p" rel="prev"><span class="fa fa-arrow-circle-left" aria-hidden="true"></span> Previous</a>
+        <a href="codedocumentation.html" class="btn btn-neutral float-right" title="Code Documentation" accesskey="n" rel="next">Next <span class="fa fa-arrow-circle-right" aria-hidden="true"></span></a>
+    </div>
 
   <hr/>
 

diff --git a/docs/userguide.html b/docs/userguide.html
@@ -53,11 +53,11 @@
 </ul>
 </li>
 <li class="toctree-l2"><a class="reference internal" href="#workflow">Workflow</a></li>
-<li class="toctree-l2"><a class="reference internal" href="#support">Support</a></li>
 <li class="toctree-l2"><a class="reference internal" href="#causes-for-constraints-and-saturation">Causes for Constraints and Saturation</a></li>
 </ul>
 </li>
 <li class="toctree-l1"><a class="reference internal" href="usecases.html">Use Cases</a></li>
+<li class="toctree-l1"><a class="reference internal" href="support.html">Support</a></li>
 <li class="toctree-l1"><a class="reference internal" href="codedocumentation.html">Code Documentation</a></li>
 <li class="toctree-l1"><a class="reference internal" href="installation.html">Installation</a></li>
 <li class="toctree-l1"><a class="reference internal" href="license.html">License</a></li>
@@ -147,25 +147,6 @@ completely different.</p>
 <img alt="_images/user_interface_guide.PNG" src="_images/user_interface_guide.PNG" />
 <figcaption>
 <p><span class="caption-text">Figure 2: Worflow in the UI</span><a class="headerlink" href="#id3" title="Permalink to this image"></a></p>
-</figcaption>
-</figure>
-</section>
-<section id="support">
-<h2>Support<a class="headerlink" href="#support" title="Permalink to this headline"></a></h2>
-<p>If you are using the Constraint Detection Add-on and need support, you can click on the menu at the top right. There you will find the options ‘Support’ and ‘Documentation’.</p>
-<figure class="align-default" id="id4">
-<img alt="_images/userguide_support_1.PNG" src="_images/userguide_support_1.PNG" />
-<figcaption>
-<p><span class="caption-text">Figure 3: Hamburger menu in the UI</span><a class="headerlink" href="#id4" title="Permalink to this image"></a></p>
-</figcaption>
-</figure>
-<p>If you encounter an error while running the add-on or you need help with a special use case, click on ‘Support’. You will automatically be redirected to the <a class="reference external" href="https://github.com/HAW-Process-Automation/Constraint-Detection/issues">GitHub Issues</a> of the Constraint Detection Add-on and can open a new issue there.
-Support requests are handled by the Department of Automation of the Hamburg University of Applied Sciences in Germany. For general questions about the use of the add-on, you can click on ‘Documentation’. This will redirect you to this
-documentation.</p>
-<figure class="align-default" id="id5">
-<img alt="_images/userguide_support_2.PNG" src="_images/userguide_support_2.PNG" />
-<figcaption>
-<p><span class="caption-text">Figure 4: GitHub Issues</span><a class="headerlink" href="#id5" title="Permalink to this image"></a></p>
 </figcaption>
 </figure>
 </section>

diff --git a/docs/index.html b/docs/index.html
@@ -47,6 +47,7 @@
 <li class="toctree-l1"><a class="reference internal" href="releasenotes.html">Release Notes</a></li>
 <li class="toctree-l1"><a class="reference internal" href="userguide.html">User Guide</a></li>
 <li class="toctree-l1"><a class="reference internal" href="usecases.html">Use Cases</a></li>
+<li class="toctree-l1"><a class="reference internal" href="support.html">Support</a></li>
 <li class="toctree-l1"><a class="reference internal" href="codedocumentation.html">Code Documentation</a></li>
 <li class="toctree-l1"><a class="reference internal" href="installation.html">Installation</a></li>
 <li class="toctree-l1"><a class="reference internal" href="license.html">License</a></li>
@@ -95,7 +96,6 @@
 <li class="toctree-l2"><a class="reference internal" href="userguide.html#video-user-guide">Video: User Guide</a></li>
 <li class="toctree-l2"><a class="reference internal" href="userguide.html#asset-tree-for-constraint-detection-add-on">Asset Tree for Constraint Detection Add-on</a></li>
 <li class="toctree-l2"><a class="reference internal" href="userguide.html#workflow">Workflow</a></li>
-<li class="toctree-l2"><a class="reference internal" href="userguide.html#support">Support</a></li>
 <li class="toctree-l2"><a class="reference internal" href="userguide.html#causes-for-constraints-and-saturation">Causes for Constraints and Saturation</a></li>
 </ul>
 </li>
@@ -105,6 +105,7 @@
 <li class="toctree-l2"><a class="reference internal" href="usecases.html#use-case-3-setpoint-analysis-for-constrained-model-predictive-control">Use Case 3: Setpoint Analysis for Constrained Model Predictive Control</a></li>
 </ul>
 </li>
+<li class="toctree-l1"><a class="reference internal" href="support.html">Support</a></li>
 <li class="toctree-l1"><a class="reference internal" href="codedocumentation.html">Code Documentation</a><ul>
 <li class="toctree-l2"><a class="reference internal" href="add_on_installation.html">Add-on Installation</a></li>
 <li class="toctree-l2"><a class="reference internal" href="backend_calculations.html">Backend Calculations</a></li>

diff --git a/docs/codedocumentation.html b/docs/codedocumentation.html
@@ -20,7 +20,7 @@
     <link rel="index" title="Index" href="genindex.html" />
     <link rel="search" title="Search" href="search.html" />
     <link rel="next" title="Add-on Installation" href="add_on_installation.html" />
-    <link rel="prev" title="Use Cases" href="usecases.html" /> 
+    <link rel="prev" title="Support" href="support.html" /> 
 </head>
 
 <body class="wy-body-for-nav"> 
@@ -48,6 +48,7 @@
 <li class="toctree-l1"><a class="reference internal" href="releasenotes.html">Release Notes</a></li>
 <li class="toctree-l1"><a class="reference internal" href="userguide.html">User Guide</a></li>
 <li class="toctree-l1"><a class="reference internal" href="usecases.html">Use Cases</a></li>
+<li class="toctree-l1"><a class="reference internal" href="support.html">Support</a></li>
 <li class="toctree-l1 current"><a class="current reference internal" href="#">Code Documentation</a><ul>
 <li class="toctree-l2"><a class="reference internal" href="add_on_installation.html">Add-on Installation</a></li>
 <li class="toctree-l2"><a class="reference internal" href="backend_calculations.html">Backend Calculations</a></li>
@@ -99,7 +100,7 @@
            </div>
           </div>
           <footer><div class="rst-footer-buttons" role="navigation" aria-label="Footer">
-        <a href="usecases.html" class="btn btn-neutral float-left" title="Use Cases" accesskey="p" rel="prev"><span class="fa fa-arrow-circle-left" aria-hidden="true"></span> Previous</a>
+        <a href="support.html" class="btn btn-neutral float-left" title="Support" accesskey="p" rel="prev"><span class="fa fa-arrow-circle-left" aria-hidden="true"></span> Previous</a>
         <a href="add_on_installation.html" class="btn btn-neutral float-right" title="Add-on Installation" accesskey="n" rel="next">Next <span class="fa fa-arrow-circle-right" aria-hidden="true"></span></a>
     </div>
 

diff --git a/docs/usecases.html b/docs/usecases.html
@@ -19,7 +19,7 @@
     <script src="_static/js/theme.js"></script>
     <link rel="index" title="Index" href="genindex.html" />
     <link rel="search" title="Search" href="search.html" />
-    <link rel="next" title="Code Documentation" href="codedocumentation.html" />
+    <link rel="next" title="Support" href="support.html" />
     <link rel="prev" title="User Guide" href="userguide.html" /> 
 </head>
 
@@ -57,6 +57,7 @@
 </li>
 </ul>
 </li>
+<li class="toctree-l1"><a class="reference internal" href="support.html">Support</a></li>
 <li class="toctree-l1"><a class="reference internal" href="codedocumentation.html">Code Documentation</a></li>
 <li class="toctree-l1"><a class="reference internal" href="installation.html">Installation</a></li>
 <li class="toctree-l1"><a class="reference internal" href="license.html">License</a></li>
@@ -236,7 +237,7 @@ and unintentional setpoint constraints within the same plant. Therefore, each co
           </div>
           <footer><div class="rst-footer-buttons" role="navigation" aria-label="Footer">
         <a href="userguide.html" class="btn btn-neutral float-left" title="User Guide" accesskey="p" rel="prev"><span class="fa fa-arrow-circle-left" aria-hidden="true"></span> Previous</a>
-        <a href="codedocumentation.html" class="btn btn-neutral float-right" title="Code Documentation" accesskey="n" rel="next">Next <span class="fa fa-arrow-circle-right" aria-hidden="true"></span></a>
+        <a href="support.html" class="btn btn-neutral float-right" title="Support" accesskey="n" rel="next">Next <span class="fa fa-arrow-circle-right" aria-hidden="true"></span></a>
     </div>
 
   <hr/>

diff --git a/docs/_modules/seeq/addons/constraintdetection/_SPy_functions.html b/docs/_modules/seeq/addons/constraintdetection/_SPy_functions.html
@@ -45,6 +45,7 @@
 <li class="toctree-l1"><a class="reference internal" href="../../../../releasenotes.html">Release Notes</a></li>
 <li class="toctree-l1"><a class="reference internal" href="../../../../userguide.html">User Guide</a></li>
 <li class="toctree-l1"><a class="reference internal" href="../../../../usecases.html">Use Cases</a></li>
+<li class="toctree-l1"><a class="reference internal" href="../../../../support.html">Support</a></li>
 <li class="toctree-l1"><a class="reference internal" href="../../../../codedocumentation.html">Code Documentation</a></li>
 <li class="toctree-l1"><a class="reference internal" href="../../../../installation.html">Installation</a></li>
 <li class="toctree-l1"><a class="reference internal" href="../../../../license.html">License</a></li>

diff --git a/docs/_modules/seeq/addons/constraintdetection/__main__.html b/docs/_modules/seeq/addons/constraintdetection/__main__.html
@@ -45,6 +45,7 @@
 <li class="toctree-l1"><a class="reference internal" href="../../../../releasenotes.html">Release Notes</a></li>
 <li class="toctree-l1"><a class="reference internal" href="../../../../userguide.html">User Guide</a></li>
 <li class="toctree-l1"><a class="reference internal" href="../../../../usecases.html">Use Cases</a></li>
+<li class="toctree-l1"><a class="reference internal" href="../../../../support.html">Support</a></li>
 <li class="toctree-l1"><a class="reference internal" href="../../../../codedocumentation.html">Code Documentation</a></li>
 <li class="toctree-l1"><a class="reference internal" href="../../../../installation.html">Installation</a></li>
 <li class="toctree-l1"><a class="reference internal" href="../../../../license.html">License</a></li>

diff --git a/docs/_modules/seeq/addons/constraintdetection/_saturation_detection.html b/docs/_modules/seeq/addons/constraintdetection/_saturation_detection.html
@@ -45,6 +45,7 @@
 <li class="toctree-l1"><a class="reference internal" href="../../../../releasenotes.html">Release Notes</a></li>
 <li class="toctree-l1"><a class="reference internal" href="../../../../userguide.html">User Guide</a></li>
 <li class="toctree-l1"><a class="reference internal" href="../../../../usecases.html">Use Cases</a></li>
+<li class="toctree-l1"><a class="reference internal" href="../../../../support.html">Support</a></li>
 <li class="toctree-l1"><a class="reference internal" href="../../../../codedocumentation.html">Code Documentation</a></li>
 <li class="toctree-l1"><a class="reference internal" href="../../../../installation.html">Installation</a></li>
 <li class="toctree-l1"><a class="reference internal" href="../../../../license.html">License</a></li>

diff --git a/docs/_modules/seeq/addons/constraintdetection/_seeq_add_on.html b/docs/_modules/seeq/addons/constraintdetection/_seeq_add_on.html
@@ -45,6 +45,7 @@
 <li class="toctree-l1"><a class="reference internal" href="../../../../releasenotes.html">Release Notes</a></li>
 <li class="toctree-l1"><a class="reference internal" href="../../../../userguide.html">User Guide</a></li>
 <li class="toctree-l1"><a class="reference internal" href="../../../../usecases.html">Use Cases</a></li>
+<li class="toctree-l1"><a class="reference internal" href="../../../../support.html">Support</a></li>
 <li class="toctree-l1"><a class="reference internal" href="../../../../codedocumentation.html">Code Documentation</a></li>
 <li class="toctree-l1"><a class="reference internal" href="../../../../installation.html">Installation</a></li>
 <li class="toctree-l1"><a class="reference internal" href="../../../../license.html">License</a></li>

diff --git a/docs/user_interface.html b/docs/user_interface.html
@@ -48,6 +48,7 @@
 <li class="toctree-l1"><a class="reference internal" href="releasenotes.html">Release Notes</a></li>
 <li class="toctree-l1"><a class="reference internal" href="userguide.html">User Guide</a></li>
 <li class="toctree-l1"><a class="reference internal" href="usecases.html">Use Cases</a></li>
+<li class="toctree-l1"><a class="reference internal" href="support.html">Support</a></li>
 <li class="toctree-l1 current"><a class="reference internal" href="codedocumentation.html">Code Documentation</a><ul class="current">
 <li class="toctree-l2"><a class="reference internal" href="add_on_installation.html">Add-on Installation</a></li>
 <li class="toctree-l2"><a class="reference internal" href="backend_calculations.html">Backend Calculations</a></li>

diff --git a/docs/add_on_installation.html b/docs/add_on_installation.html
@@ -48,6 +48,7 @@
 <li class="toctree-l1"><a class="reference internal" href="releasenotes.html">Release Notes</a></li>
 <li class="toctree-l1"><a class="reference internal" href="userguide.html">User Guide</a></li>
 <li class="toctree-l1"><a class="reference internal" href="usecases.html">Use Cases</a></li>
+<li class="toctree-l1"><a class="reference internal" href="support.html">Support</a></li>
 <li class="toctree-l1 current"><a class="reference internal" href="codedocumentation.html">Code Documentation</a><ul class="current">
 <li class="toctree-l2 current"><a class="current reference internal" href="#">Add-on Installation</a></li>
 <li class="toctree-l2"><a class="reference internal" href="backend_calculations.html">Backend Calculations</a></li>
